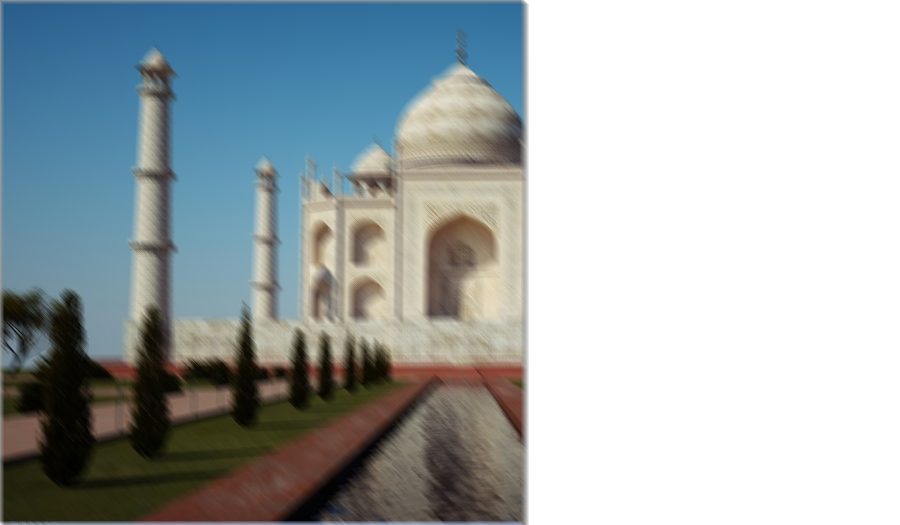
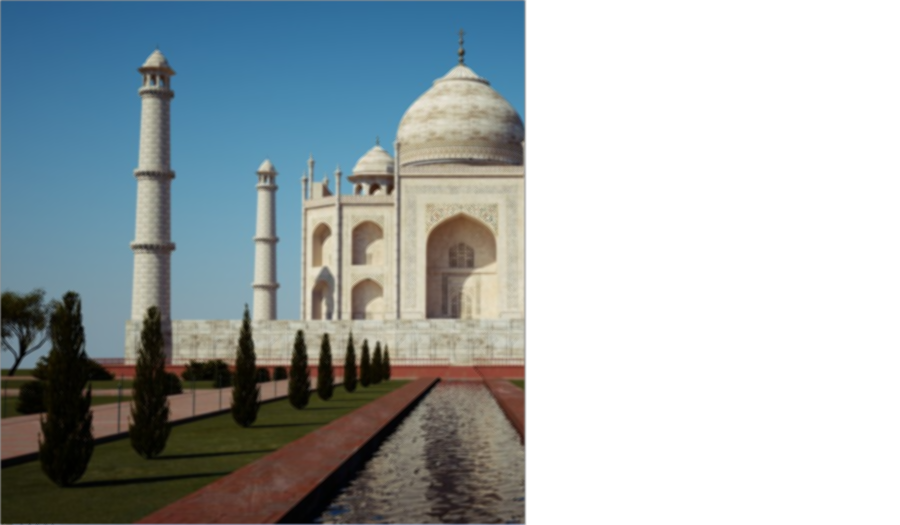
mp6 submission

diff --git a/MP6/functions.c b/MP6/functions.c
@@ -140,12 +140,7 @@ void convolveImage(uint8_t *inRed,uint8_t *inBlue,uint8_t *inGreen,
                     if((row+row_checker-radius)<0 || (row+row_checker-radius)>=width ||  
                     (column+column_checker-radius)<0 || (column+column_checker-radius)>=height) //Used to check if the current filter position
                                                                                                 //is within the boundary
-                    {
-                        red_channel+=0;
-                        blue_channel+=0;
-                        green_channel+=0;
-                        alpha_channel+=0;
-                    }
+		      break;
                     else        //If the current filter location is valid, then the filter is applied to it
                     {
                         red_channel= red_channel + inRed[width * (row + row_checker - radius) +
